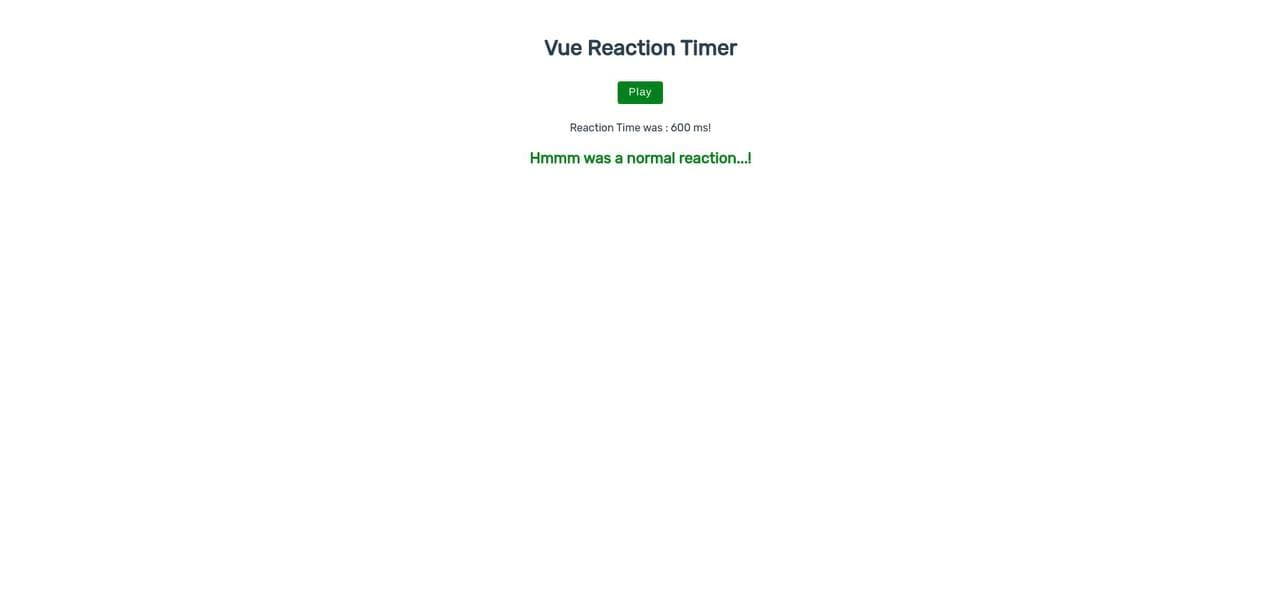
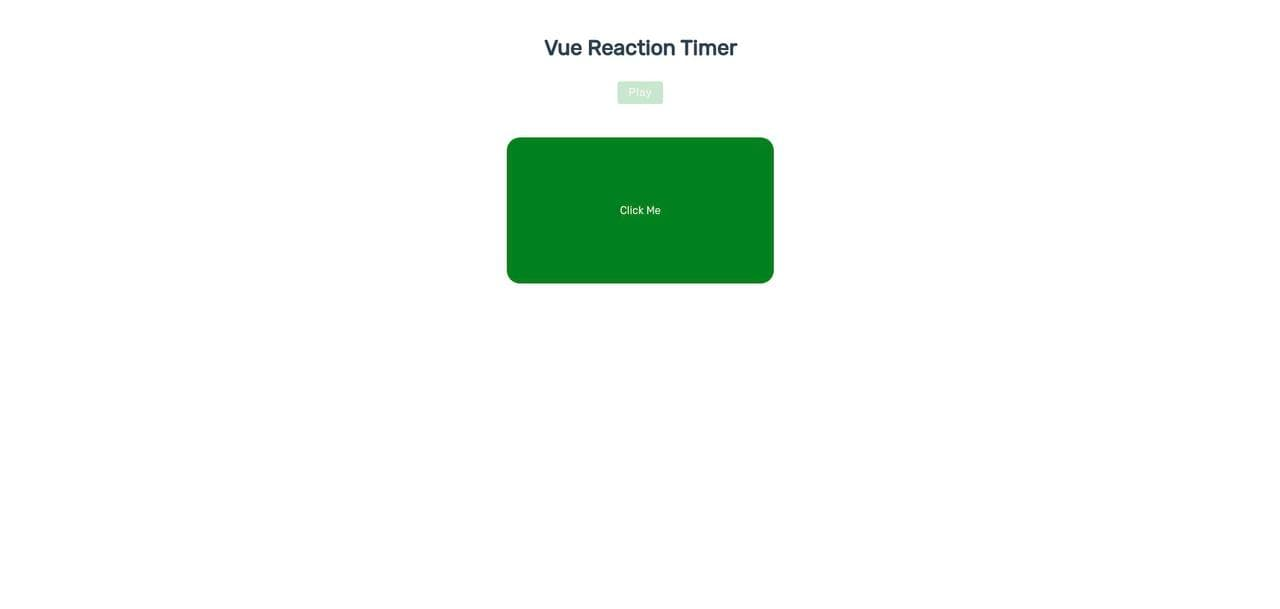
Verified by Martian v1.0.7

Changed region(s): [[0.375, 0.1248, 0.625, 0.468]]

diff --git a/README.md b/README.md
@@ -3,3 +3,5 @@
 ![](./public/assets/2.jpg)
 
 ![](./public/assets/3.jpg)
+
+![](./public/assets/4.jpg)
